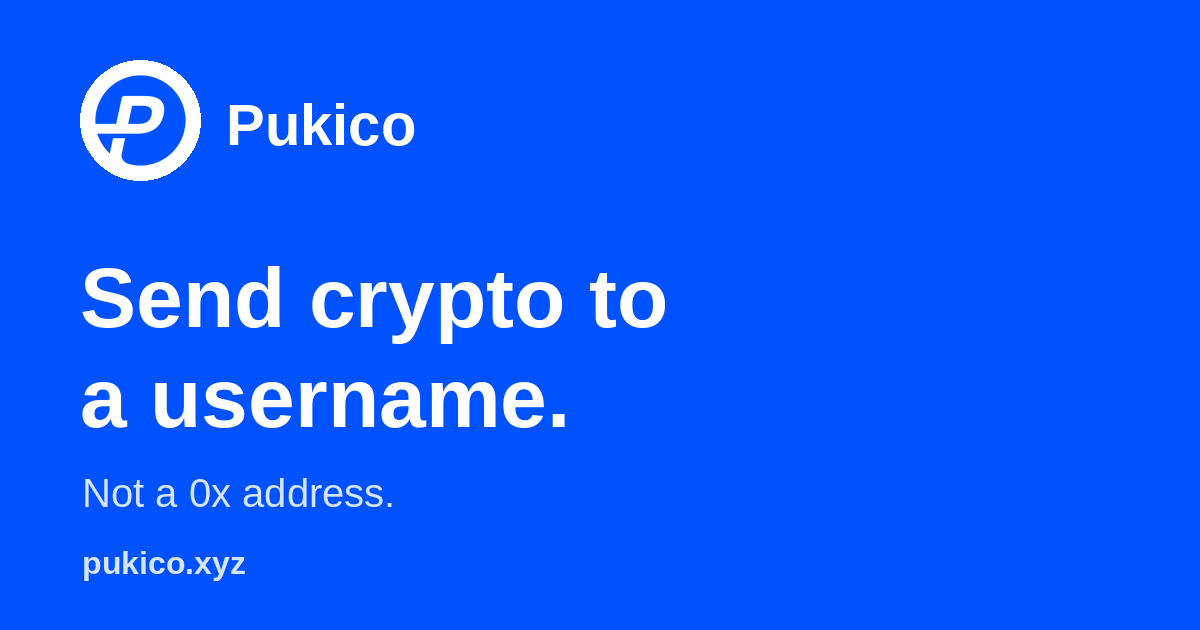
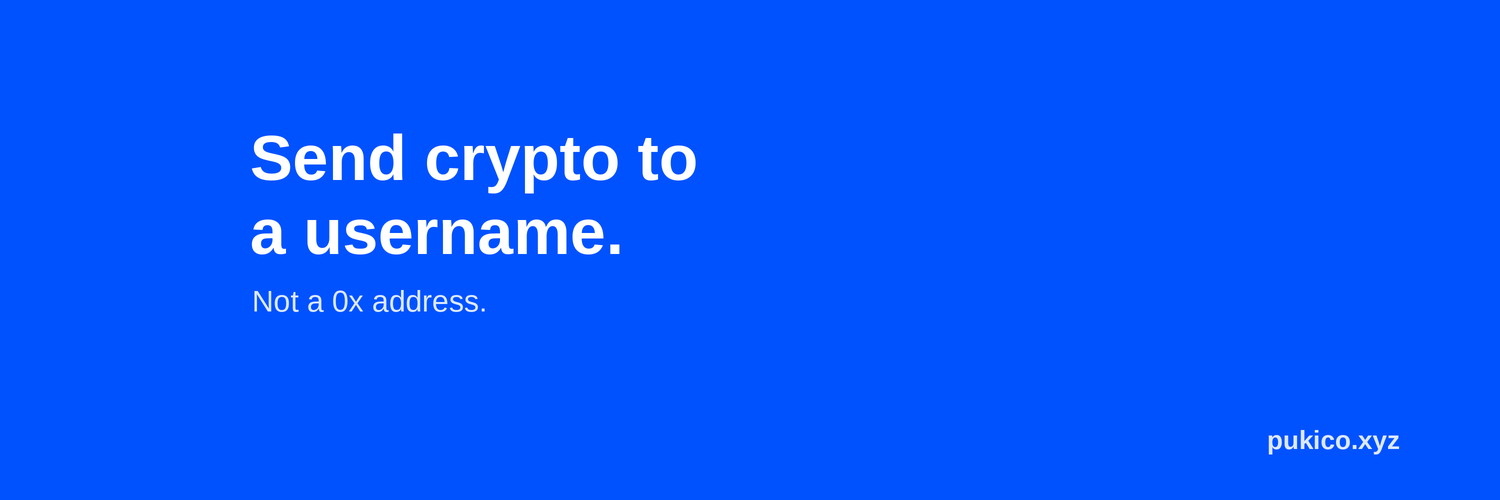
chore: update social preview image
Replace social preview image with a new version and update dimensions to 1200x630 to align with standard Open Graph requirements.

diff --git a/index.html b/index.html
@@ -26,11 +26,11 @@
     <meta property="og:title" content="Pukico – Send crypto as easily as paying a friend" />
     <meta property="og:description" content="Send crypto as easily as paying a friend." />
     <meta property="og:site_name" content="Pukico" />
-    <meta property="og:image" content="https://pukico.xyz/pukico-social-preview.png" />
-    <meta property="og:image:secure_url" content="https://pukico.xyz/pukico-social-preview.png" />
+    <meta property="og:image" content="https://pukico.xyz/pukico-x-card.png" />
+    <meta property="og:image:secure_url" content="https://pukico.xyz/pukico-x-card.png" />
     <meta property="og:image:type" content="image/png" />
-    <meta property="og:image:width" content="1500" />
-    <meta property="og:image:height" content="500" />
+    <meta property="og:image:width" content="1200" />
+    <meta property="og:image:height" content="630" />
     <meta property="og:image:alt" content="Pukico – Send crypto as easily as paying a friend" />
     <meta property="og:locale" content="en_US" />
 
@@ -39,7 +39,7 @@
     <meta name="twitter:url" content="https://pukico.xyz/" />
     <meta name="twitter:title" content="Pukico – Send crypto as easily as paying a friend" />
     <meta name="twitter:description" content="Send crypto as easily as paying a friend." />
-    <meta name="twitter:image" content="https://pukico.xyz/pukico-social-preview.png" />
+    <meta name="twitter:image" content="https://pukico.xyz/pukico-x-card.png" />
     <meta name="twitter:image:alt" content="Pukico – Send crypto as easily as paying a friend" />
   </head>
   <body class="bg-white text-[#3B4455] antialiased font-sans selection:bg-[#EEF4FF] selection:text-[#0052FF]">
